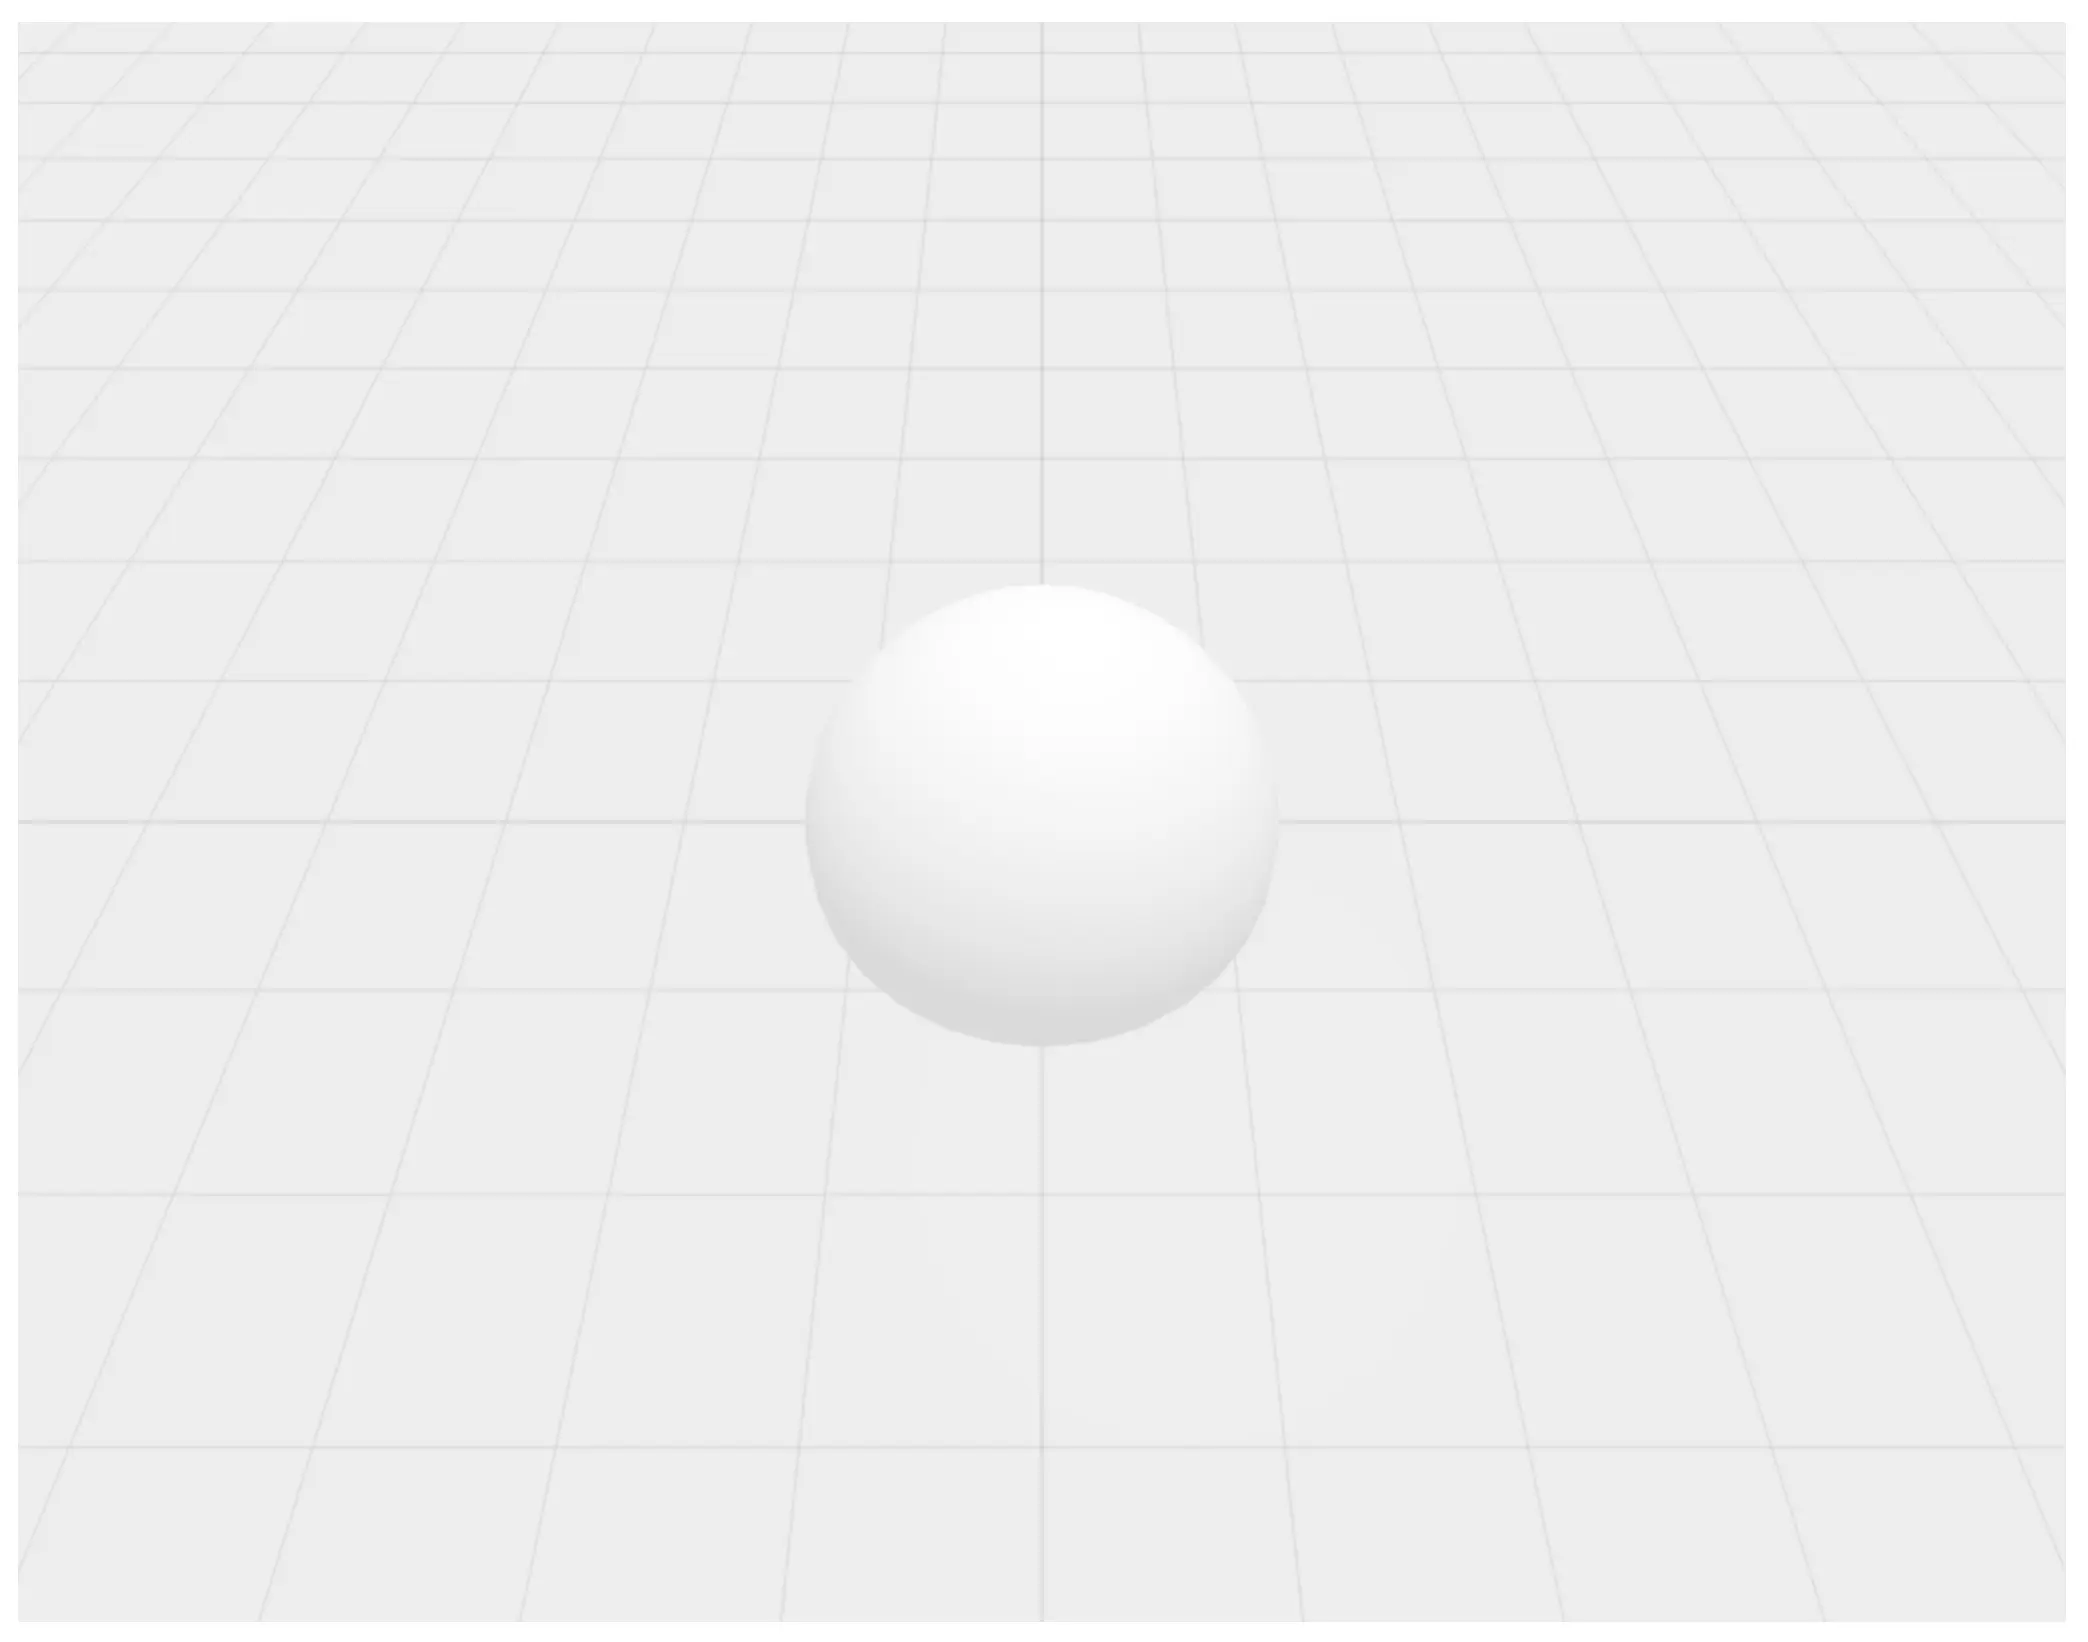
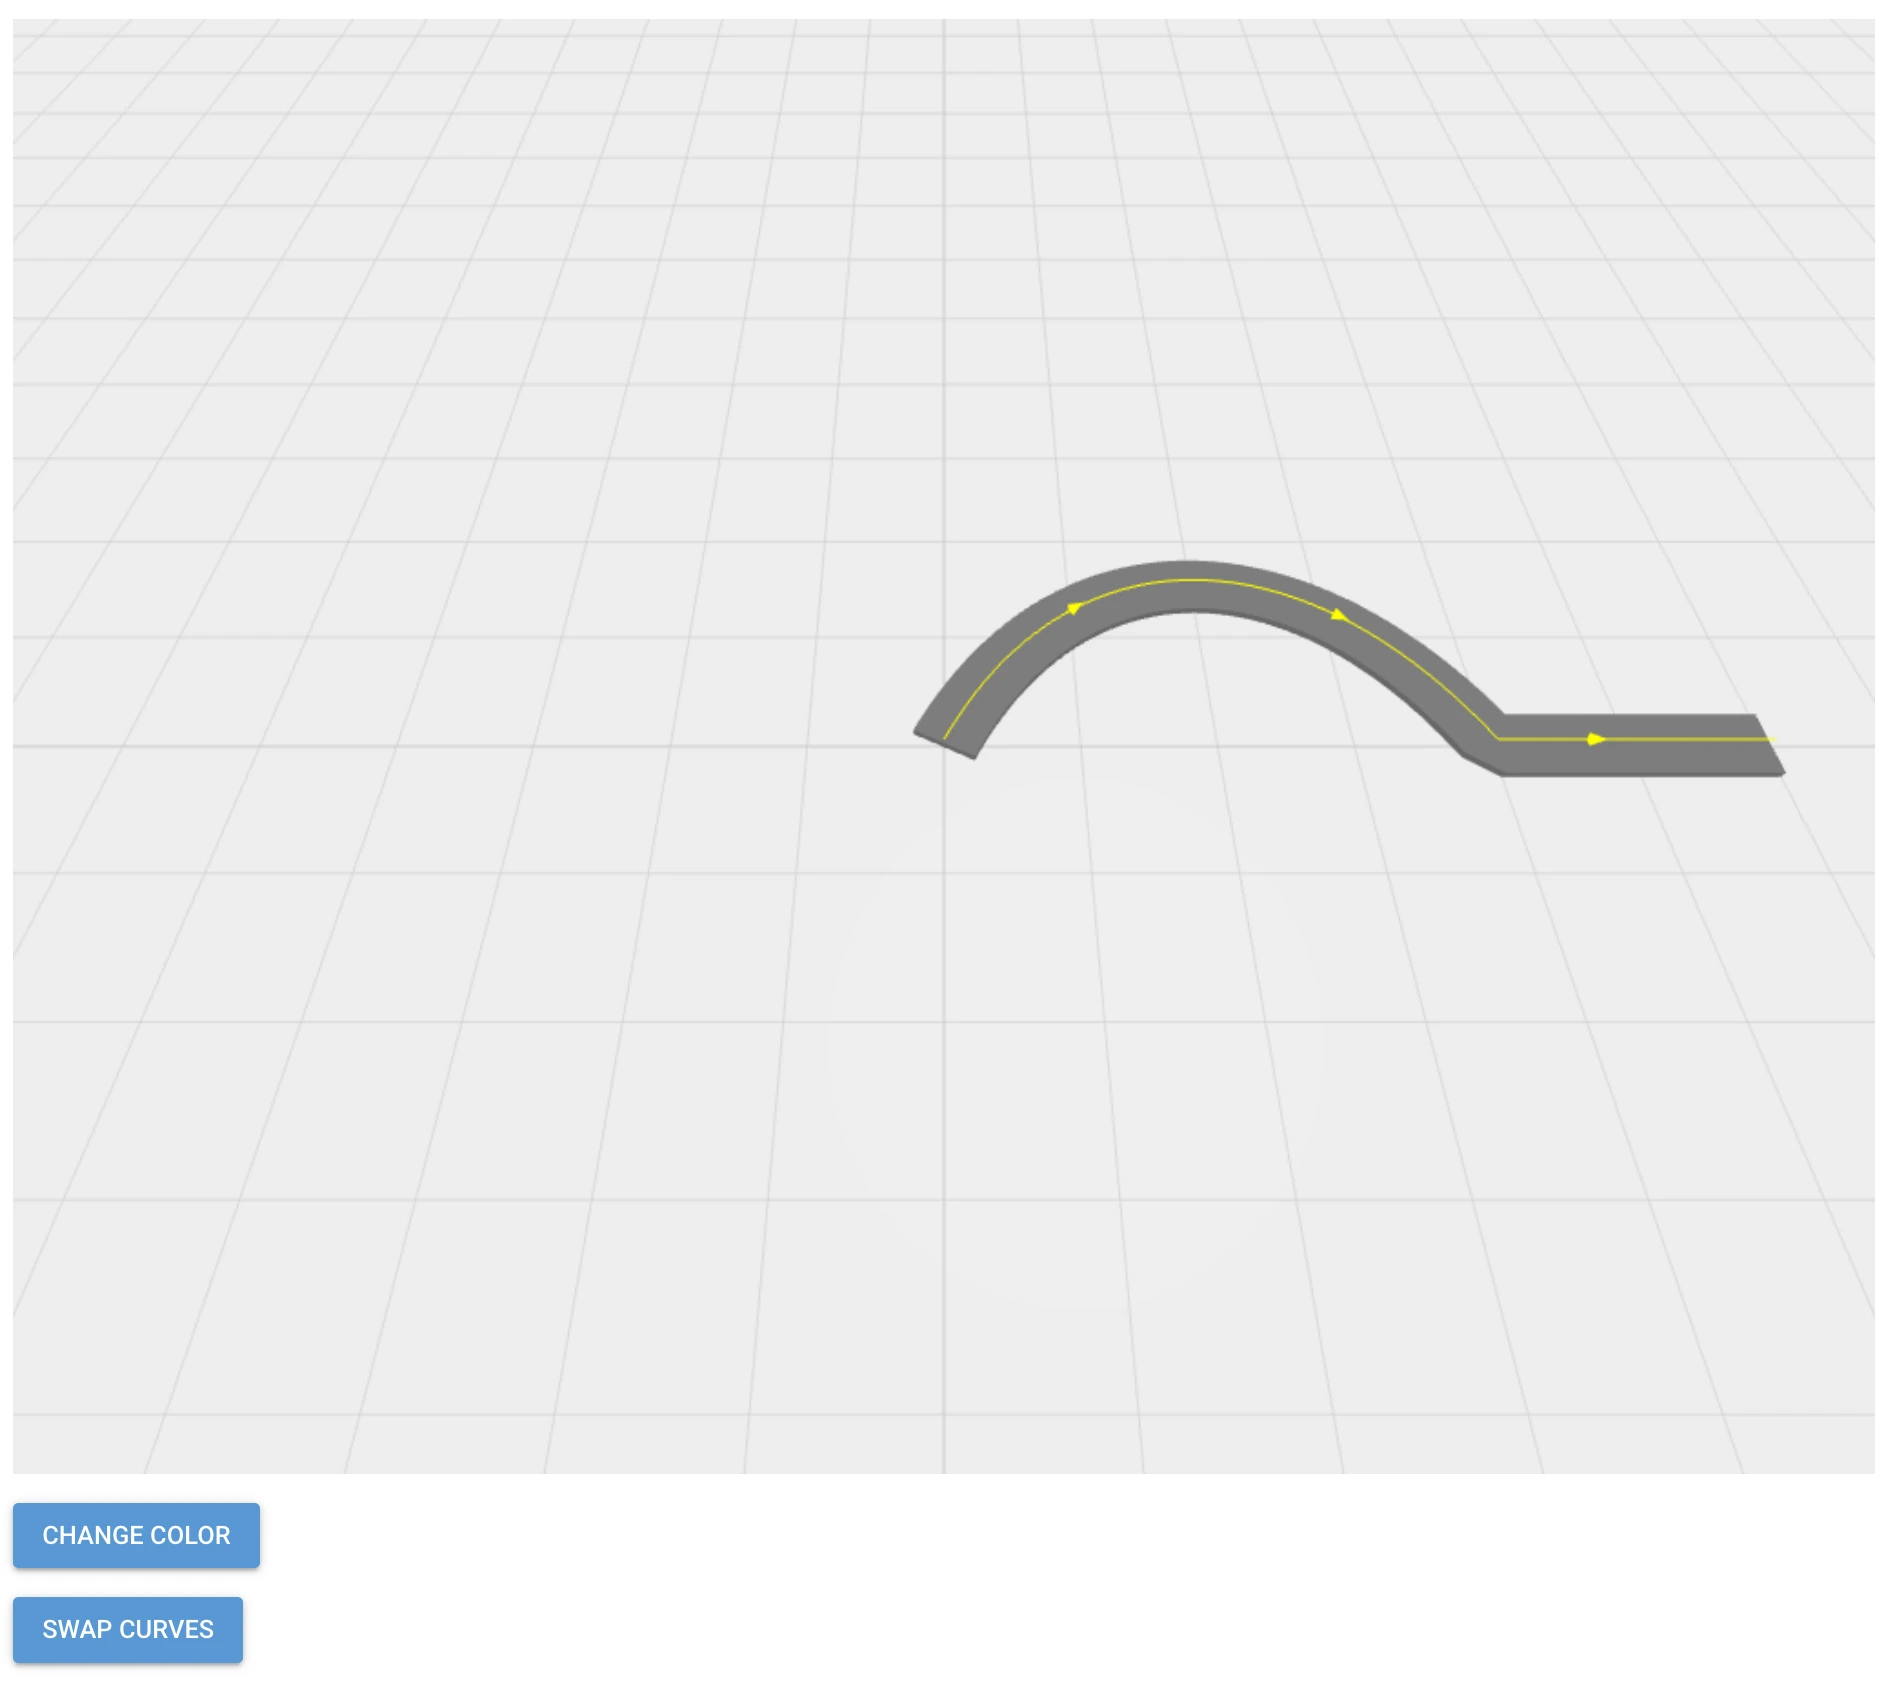
Add a more sophisticated use-case of custom objects

Changed region(s): [[0.4663, 0.3106, 0.9636, 0.4659], [0.0, 0.8697, 0.1554, 0.9939]]

diff --git a/examples/3d_scene_custom_objects/dynamic_road.js b/examples/3d_scene_custom_objects/dynamic_road.js
@@ -1,0 +1,119 @@
+import SceneLib from "nicegui-scene";
+const { THREE } = SceneLib;
+
+function buildCurve(spec) {
+  const V = (p) => new THREE.Vector3(p[0], p[1], p[2]);
+  switch (spec.type) {
+    case 'cubic':
+      return new THREE.CubicBezierCurve3(V(spec.v0), V(spec.v1), V(spec.v2), V(spec.v3));
+    case 'quadratic':
+      return new THREE.QuadraticBezierCurve3(V(spec.v0), V(spec.v1), V(spec.v2));
+    case 'line':
+      return new THREE.LineCurve3(V(spec.v0), V(spec.v1));
+    case 'catmullrom':
+      return new THREE.CatmullRomCurve3(
+        spec.points.map(V),
+        spec.closed ?? false,
+        spec.curveType ?? 'centripetal',
+        spec.tension ?? 0.5,
+      );
+    default:
+      console.error(`dynamic_road: unknown curve type "${spec.type}"`, spec);
+      return null;
+  }
+}
+
+export default class DynamicRoad {
+  group; road; directionLine; arrows;
+  width; thickness; latestMaterial; latestArrowColor;
+
+  create_mesh(curves, width, thickness) {
+    this.width = width;
+    this.thickness = thickness;
+    this.group = new THREE.Group();
+    this._build(curves);
+    return this.group;
+  }
+
+  _build(curves) {
+    const curvePath = new THREE.CurvePath();
+    for (const spec of curves) {
+      const c = buildCurve(spec);
+      if (c) curvePath.add(c);
+    }
+    const halfW = this.width / 2;
+    const halfT = this.thickness / 2;
+    const shape = new THREE.Shape();
+    shape.moveTo(-halfT, -halfW);
+    shape.lineTo(halfT, -halfW);
+    shape.lineTo(halfT, halfW);
+    shape.lineTo(-halfT, halfW);
+    shape.lineTo(-halfT, -halfW);
+    const roadGeometry = new THREE.ExtrudeGeometry(shape, {
+      extrudePath: curvePath, steps: 200, bevelEnabled: false,
+    });
+    const roadMaterial = new THREE.MeshStandardMaterial({
+      roughness: 0.8, metalness: 0.1,
+    });
+    this.road = new THREE.Mesh(roadGeometry, roadMaterial);
+
+    const STEPS = 200;
+    const spinePts = curvePath.getSpacedPoints(STEPS);
+    const lift = this.thickness;
+    const topPts = spinePts.map((p) => new THREE.Vector3(p.x, p.y, p.z + lift));
+    this.directionLine = new THREE.Line(
+      new THREE.BufferGeometry().setFromPoints(topPts),
+      new THREE.LineBasicMaterial({ color: 0xffff00 }),
+    );
+    const arrowSize = Math.max(this.width * 0.5, 0.1);
+    this.arrows = [0.2, 0.5, 0.8].map((t) => {
+      const i = Math.round(t * STEPS);
+      const dir = curvePath.getTangentAt(t).normalize();
+      return new THREE.ArrowHelper(dir, topPts[i], arrowSize, 0xffff00, arrowSize * 0.5, arrowSize * 0.4);
+    });
+    this.group.add(this.road);
+    this.group.add(this.directionLine);
+    for (const a of this.arrows) this.group.add(a);
+    if (this.latestMaterial) {
+      const { color, opacity, side } = this.latestMaterial
+      this.apply_material(color, opacity, side)
+    }
+    if (this.latestArrowColor) {
+      this.set_arrow_color(this.latestArrowColor)
+    }
+  }
+
+  set_curves(curves) {
+    this.road.geometry.dispose();
+    this.road.material.dispose();
+    this.directionLine.geometry.dispose();
+    this.directionLine.material.dispose();
+    for (const a of this.arrows) {
+      a.line.geometry.dispose();
+      a.line.material.dispose();
+      a.cone.geometry.dispose();
+      a.cone.material.dispose();
+    }
+    this.group.clear();
+    this._build(curves);
+  }
+
+  set_arrow_color(color) {
+    this.latestArrowColor = color
+    this.directionLine.material.color.set(color);
+    for (const a of this.arrows) a.setColor(new THREE.Color(color));
+  }
+
+  apply_material(color, opacity, side) {
+    this.latestMaterial = { color, opacity, side }
+    const vertexColors = color === null;
+    const m = this.road.material;
+    m.color.set(vertexColors ? '#ffffff' : color);
+    m.needsUpdate = m.vertexColors !== vertexColors;
+    m.vertexColors = vertexColors;
+    m.opacity = opacity;
+    if (side === 'front') m.side = THREE.FrontSide;
+    else if (side === 'back') m.side = THREE.BackSide;
+    else m.side = THREE.DoubleSide;
+  }
+}

diff --git a/examples/3d_scene_custom_objects/main.py b/examples/3d_scene_custom_objects/main.py
@@ -1,8 +1,7 @@
 #!/usr/bin/env python3
-"""Custom 3D scene-object example: a sphere that pulses via a Python-controlled scale."""
+"""Custom 3D scene-object example: a road extruded along a curve with direction indicators."""
 
-import math
-import time
+from itertools import cycle
 
 from typing_extensions import Self
 
@@ -10,18 +9,34 @@ from nicegui import ui
 from nicegui.elements.scene.scene_object3d import Object3D
 
 
-class PulsingSphere(Object3D, component='pulsing_sphere.js'):
-    def __init__(self, radius: float = 1.0) -> None:
-        super().__init__(radius)
+class DynamicRoad(Object3D, component='dynamic_road.js'):
+    def __init__(self, curves: list[dict], width: float, thickness: float) -> None:
+        super().__init__(curves, width, thickness)
 
-    def set_scale(self, s: float) -> Self:
-        self.run_method('set_scale', s)
+    def set_curves(self, curves: list[dict]) -> Self:
+        self.run_method('set_curves', curves)
+        return self
+
+    def set_arrow_color(self, color: str) -> Self:
+        self.run_method('set_arrow_color', color)
         return self
 
 
-with ui.scene(width=1024, height=800, fps=60) as scene:
-    sphere = PulsingSphere(radius=1.0)
+curves_a = [
+    {'type': 'cubic', 'v0': [0, 0, 0], 'v1': [1, 2, 0], 'v2': [3, 2, 0], 'v3': [4, 0, 0]},
+    {'type': 'line', 'v0': [4, 0, 0], 'v1': [6, 0, 0]},
+]
 
-ui.timer(0.05, lambda: sphere.set_scale(1.0 + 0.4 * math.sin(time.time() * 3)))
+curves_b = [
+    {'type': 'catmullrom', 'points': [[0, 0, 0], [1, 1, 0.5], [2, 0, 0.7], [3, -1, 0.5], [4, 0, 0]]},
+]
+
+with ui.scene(width=1024, height=800, fps=60) as scene:
+    road = DynamicRoad(curves=curves_a, width=0.5, thickness=0.1).material('#808080')
+
+color_iterator = cycle(['#ff00ff', '#0099ee'])
+curve_iterator = cycle([curves_b, curves_a])
+ui.button('Change color', on_click=lambda: road.set_arrow_color(next(color_iterator)))
+ui.button('Swap curves', on_click=lambda: road.set_curves(next(curve_iterator)))
 
 ui.run()

diff --git a/website/documentation/content/scene_documentation.py b/website/documentation/content/scene_documentation.py
@@ -323,13 +323,14 @@ def custom_composed_objects() -> None:
 
 
 @doc.demo('Custom 3D Scene Objects', '''
-    If the bundled primitives are not enough for your need, or if you want to run some
+    If the bundled primitives are not enough for your needs, or if you want to run some
     complex logic on the client side, the scene provides you with a way to create your
     own 3D objects. It works by subclassing `Object3D`, implementing a corresponding
     module in JS, and linking them together.
 
     The ["3D Scene Custom Objects" example](https://github.com/zauberzeug/nicegui/tree/main/examples/3d_scene_custom_objects)
-    demonstrates how to build this class and module, and what is the interface available to you.
+    demonstrates a more sophisticated use-case and shows how to build this class and
+    module, and what's the interface available to you.
 ''')
 def custom_3d_scene_objects() -> None:
     import math
@@ -351,8 +352,8 @@ def custom_3d_scene_objects() -> None:
 
     ui.timer(0.05, lambda: sphere.set_scale(1.0 + 0.4 * math.sin(time.time() * 3)))
 
-    # pulsing_sphere.js:
     """
+    // Contents of `pulsing_sphere.js`:
     import SceneLib from "nicegui-scene";
     const { THREE } = SceneLib;
 

diff --git a/examples/3d_scene_custom_objects/README.md b/examples/3d_scene_custom_objects/README.md
@@ -14,12 +14,16 @@ from typing_extensions import Self
 from nicegui.elements.scene.scene_object3d import Object3D
 
 
-class PulsingSphere(Object3D, component='pulsing_sphere.js'):
-    def __init__(self, radius: float = 1.0) -> None:
-        super().__init__(radius)
+class DynamicRoad(Object3D, component='dynamic_road.js'):
+    def __init__(self, curves: list[dict], width: float, thickness: float) -> None:
+        super().__init__(curves, width, thickness)
 
-    def set_scale(self, s: float) -> Self:
-        self.run_method('set_scale', s)
+    def set_curves(self, curves: list[dict]) -> Self:
+        self.run_method('set_curves', curves)
+        return self
+
+    def set_arrow_color(self, color: str) -> Self:
+        self.run_method('set_arrow_color', color)
         return self
 ```
 
@@ -35,37 +39,40 @@ per scene object and calls one of two entry points to build the mesh:
   the built-in `material()` / `scale()` / `move()` controls automatically.
 - `create_mesh(...args)` — return a `THREE.Object3D` outright. Use this when
   you need ongoing access to the mesh from your own methods (store it on
-  `this.mesh`), or when the mesh is complex and cannot be represented with
-  just a `THREE.BufferGeometry`.
+  `this.group`/`this.mesh`), or when the mesh is complex and cannot be
+  represented with just a `THREE.BufferGeometry`.
 
 Optional hooks the framework will call if you define them:
 
 - `apply_material(color, opacity, side)` — override the default material
-  handling (useful for groups/GLTF where multiple sub-meshes exist).
+  handling. For composite objects, you can apply material selectively — in this
+  example `apply_material` only affects the road mesh, leaving the direction
+  line and arrow helpers untouched.
 - `attached(scene, parent_mesh)` — after the mesh is added to its parent.
 - `detached(scene)` — after the mesh is removed from its parent.
 - `deleted()` — after the object is deleted.
+
+An empty object would look like this (omit methods you don't want to implement):
 
 ```js
 import SceneLib from "nicegui-scene";
 const { THREE } = SceneLib;
 
-export default class PulsingSphere {
-  mesh;
+export default class CustomObject {
+    // Either
+    create_geometry(...args) {} // return a THREE.BufferGeometry
+    // Or:
+    create_mesh(...args) {} // return a THREE.Mesh
 
-  create_mesh(radius) {
-    const geometry = new THREE.SphereGeometry(radius, 32, 16);
-    const material = new THREE.MeshPhongMaterial({ color: 0x44aaff, transparent: true });
-    this.mesh = new THREE.Mesh(geometry, material);
-    return this.mesh;
-  }
+    apply_material(color, opacity, side) {}
 
-  set_scale(s) {
-    this.mesh.scale.set(s, s, s);
-  }
+    attached(scene, parent_mesh) {}
+    detached(scene) {}
+
+    deleted() {}
 }
 ```
 
-Run with: `uv run main.py`.
+Run the example with: `uv run main.py`.
 
 ![Screenshot](screenshot.webp)